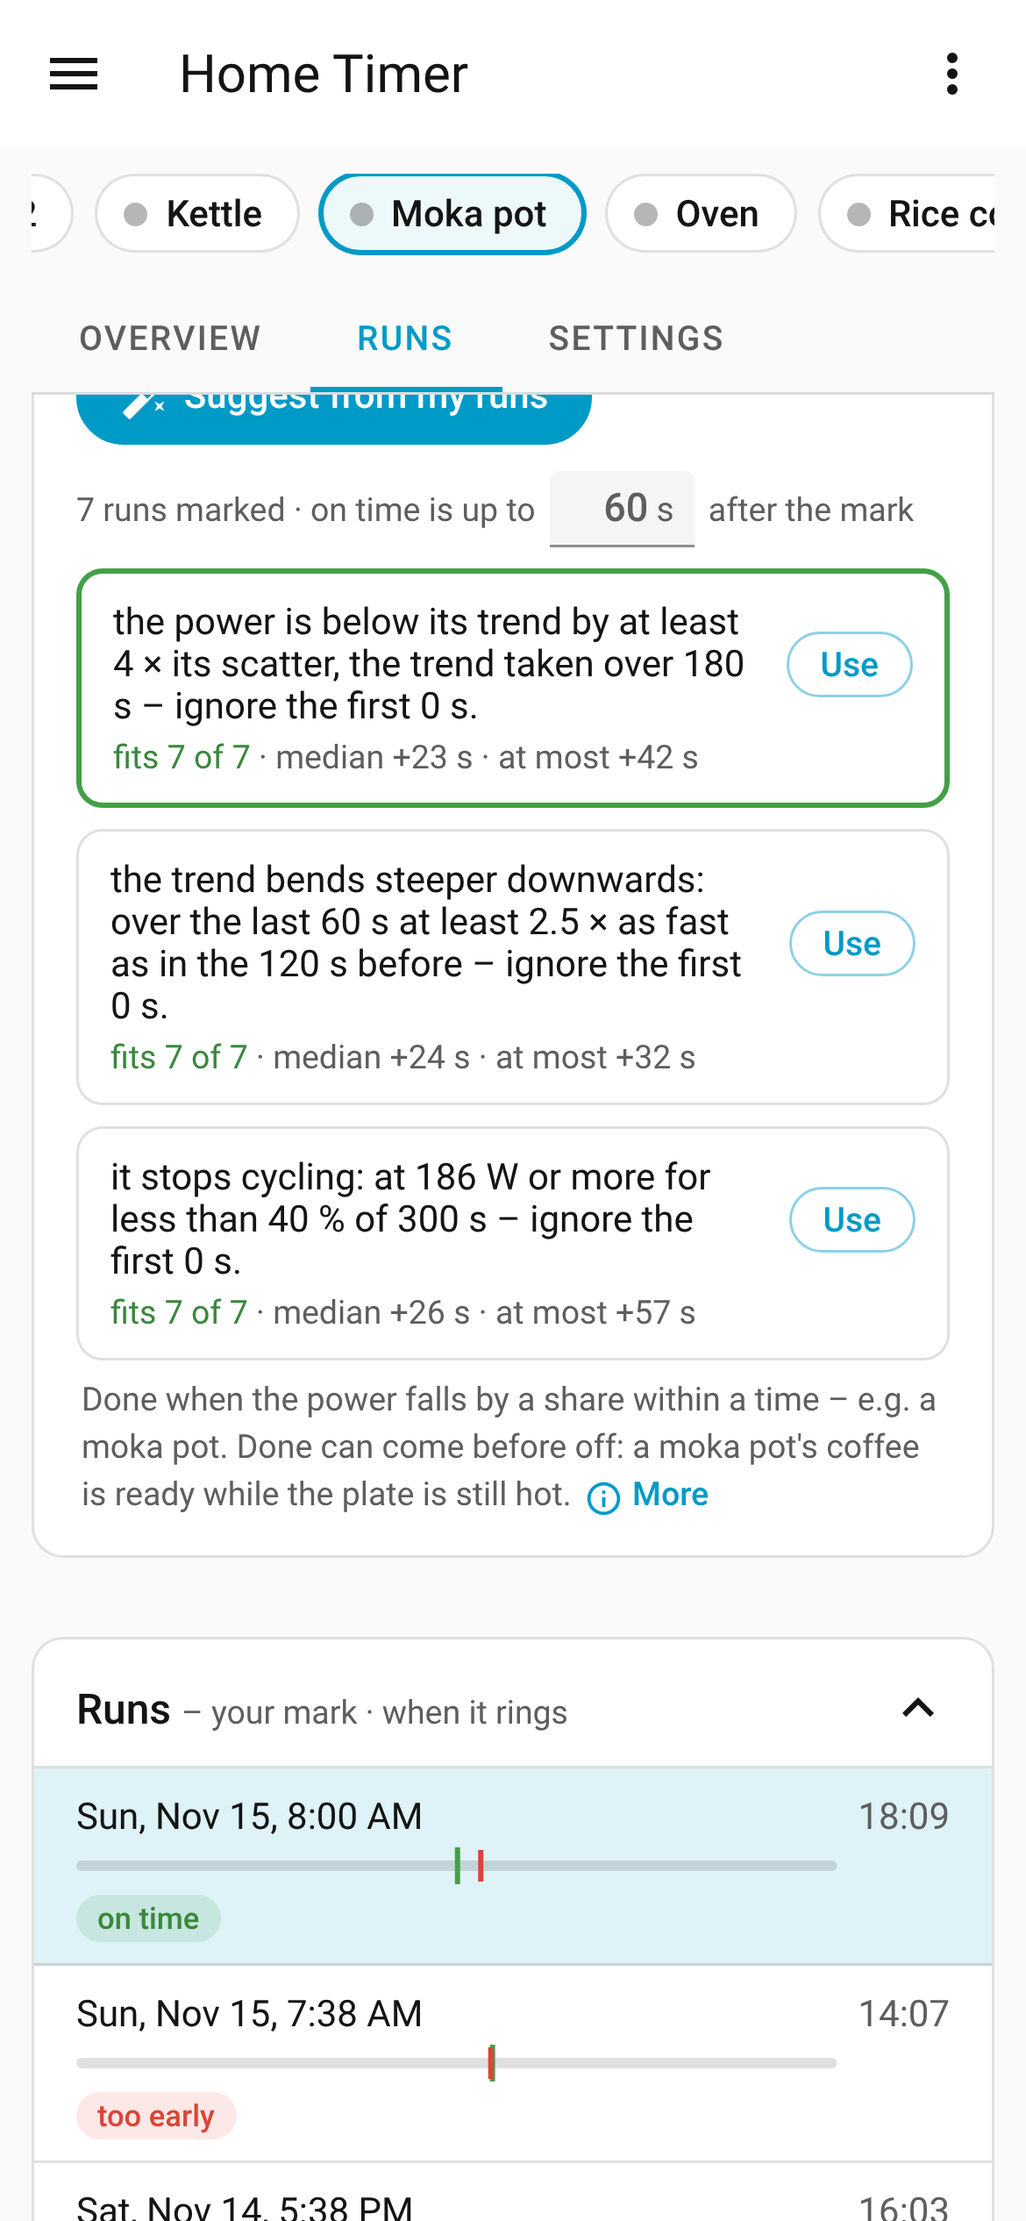
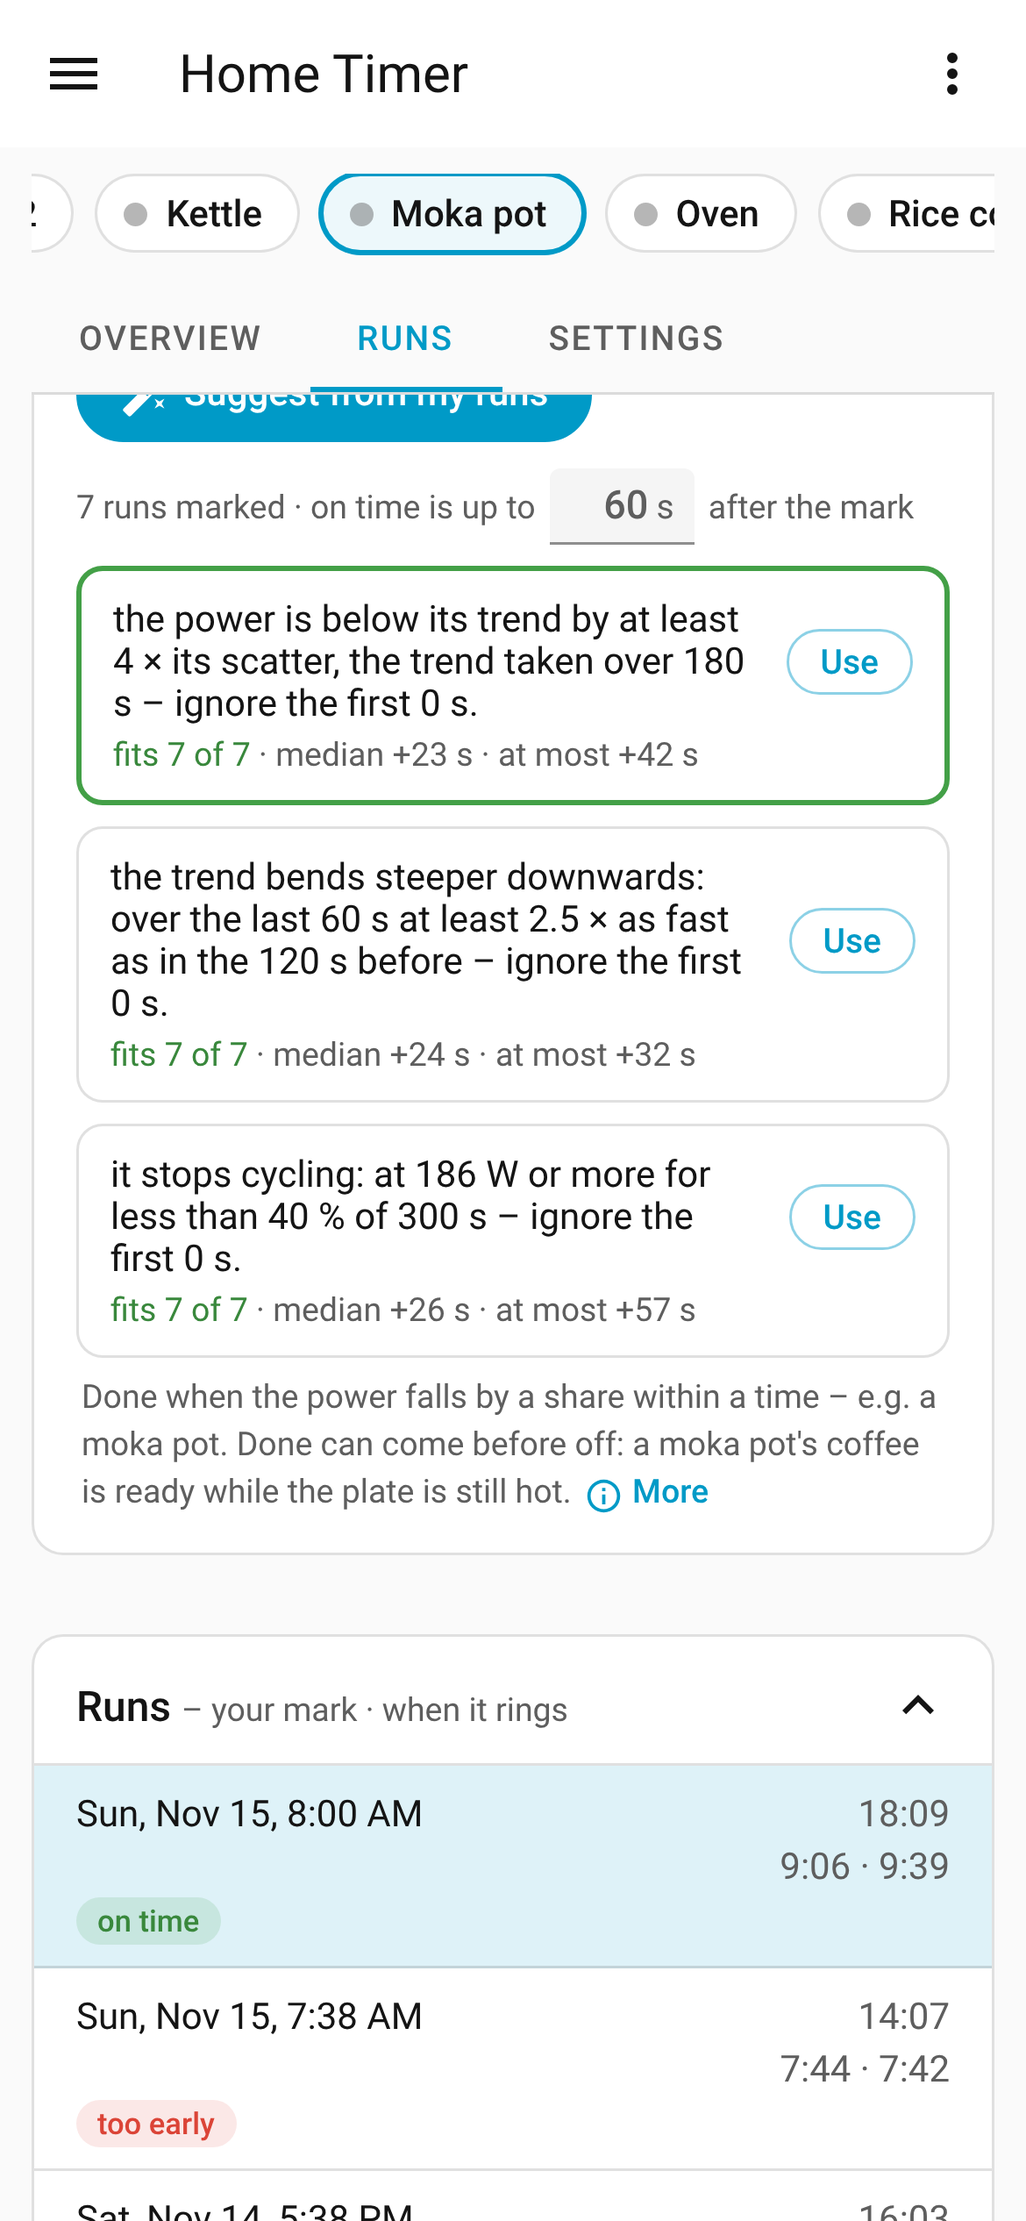
Station tabs: review fixes
- The overview's "suggestions are ready" card works (it compared the
  wrong key) and asks for a search that finished earlier.
- A power station's overview has Done now while a run goes on (when it
  learns) and Acknowledge while it rings.
- The note that runs were recorded with another sensor shows where the
  sensor is picked (Settings).
- The runs list keeps its ring times (mark · saved → draft); the small
  strip gives way instead.
- Errors of the done rule lead to Runs only when the rule is shown
  there; otherwise they show on Settings. Presets of a station turned to
  "by power" are marked on Settings.
- Settings fetches no preview it does not show; the Runs tab says so when
  the draft turns the station to "by hand".
- Station by hand: no Pause for a timer that counts up; no buttons
  without its timer entity; presets start by id.
- Leftover styles removed; docs say "Runs tab" instead of "page".

Claude-Session: https://claude.ai/code/session_013QxJ3mY44sKf5QDsVZqSUV

diff --git a/custom_components/home_timer/frontend/home-timer-panel.js b/custom_components/home_timer/frontend/home-timer-panel.js
@@ -348,7 +348,7 @@ class HomeTimerPanel extends LitElement {
         // the errors may be on another tab of the station: go to the first one with errors
         const r = this._route;
         const station = this._area(r.entry)?.stations.find((s) => s.id === r.station);
-        const tabs = [...new Set(Object.keys(this._errors[`station:${r.entry}:${r.station}`] || {}).map((f) => HomeTimerPanel.fieldTab(f, station)))];
+        const tabs = [...new Set(Object.keys(this._errors[`station:${r.entry}:${r.station}`] || {}).map((f) => HomeTimerPanel.fieldTab(f, station, this._drafts[`station:${r.entry}:${r.station}`])))];
         if (station && tabs.length && !tabs.includes(this._stationTab(station))) this._go(`station/${r.entry}/${r.station}/${tabs[0]}`, { force: true });
       }
       if (failed && this._route.page === "home") {
@@ -900,9 +900,10 @@ class HomeTimerPanel extends LitElement {
   }
 
   // which tab of a station shows a field of its draft (for the dot on a tab and to show errors)
-  static fieldTab(field, station) {
-    if (station?.mode === "power" && /^power\.(done|tolerance)(\.|$)/.test(field)) return "runs";
-    if (/^presets(\.|$)/.test(field)) return station?.mode === "power" ? "settings" : "presets";
+  static fieldTab(field, station, d) {
+    const rule = station?.mode === "power" && (!d || (d.mode === "power" && d.power?.kind === "until_off"));
+    if (rule && /^power\.(done|tolerance)(\.|$)/.test(field)) return "runs"; // the rule is on Runs only for "ring when it's done"
+    if (/^presets(\.|$)/.test(field)) return station?.mode === "manual" && (!d || d.mode === "manual") ? "presets" : "settings";
     return "settings";
   }
 
@@ -913,9 +914,9 @@ class HomeTimerPanel extends LitElement {
     if (!d || !b || same(d, b)) return new Set();
     const tabs = new Set();
     for (const k of ["name", "icon", "mode"]) if (!same(d[k], b[k])) tabs.add("settings");
-    if (!same(d.presets, b.presets)) tabs.add(HomeTimerPanel.fieldTab("presets", station));
+    if (!same(d.presets, b.presets)) tabs.add(HomeTimerPanel.fieldTab("presets", station, d));
     for (const k of new Set([...Object.keys(d.power || {}), ...Object.keys(b.power || {})])) {
-      if (!same(d.power?.[k], b.power?.[k])) tabs.add(HomeTimerPanel.fieldTab(`power.${k}`, station));
+      if (!same(d.power?.[k], b.power?.[k])) tabs.add(HomeTimerPanel.fieldTab(`power.${k}`, station, d));
     }
     return tabs;
   }
@@ -952,7 +953,9 @@ class HomeTimerPanel extends LitElement {
     const showPresets = (!power && station?.mode !== "manual") || (power && (d.power.kind === "start_preset" || presetErrors));
     const data = savedPower ? this._runs[this._runsKey(area.entry_id, station.id)] : null;
     if (savedPower && !data) this._loadRunsSoon(area.entry_id, station.id);
-    const preview = savedPower && data && power ? this._previewFor(area, station, d) : null;
+    // the preview only where Settings shows it: the summary of "start a preset" / "warn"
+    const preview = savedPower && data && power && d.power.kind !== "until_off" ? this._previewFor(area, station, d) : null;
+    const ruleErrors = d.power.kind !== "until_off" || !power ? Object.entries(this._errors[key] || {}).filter(([k]) => /^power\.(done|tolerance)(\.|$)/.test(k)) : [];
     return html`<div class="cols ${power ? "wide" : ""}"><div class="col">
       <div class="card"><div class="cb ident">
         <div class="inarea"><ha-icon icon=${area.icon || "mdi:texture-box"}></ha-icon>${t("station.in_area", { area: area.name })}</div>
@@ -969,6 +972,7 @@ class HomeTimerPanel extends LitElement {
         ? html`${savedPower ? nothing : html`<div class="card"><div class="ch">${t("runs.title")}</div><div class="cb">
               <div class="emptycard"><b>${t("runs.after_save")}</b><span>${t("runs.after_save_hint")}</span></div></div></div>`}
             ${this._renderTodo(key, d, set, savedPower ? station : null, preview, !savedPower)}
+            ${ruleErrors.map(([k, code]) => html`<div class="err" role="alert">${t("power.rule")}: ${t(`error.${code}`)}</div>`)}
             ${this._renderOnOff(key, d, set, false, savedPower ? station : null)}
             ${data && !data.error ? this._renderSensor(data, station) : nothing}`
         : nothing}
@@ -988,15 +992,15 @@ class HomeTimerPanel extends LitElement {
       this.hass.callService("home_timer", service, data, { entity_id: station.entities.timer }).catch((err) => (this._notice = { kind: "error", text: err?.message || String(err) }));
     const busy = ["active", "paused", "ringing"].includes(live.status);
     return html`<div class="column wide">
-      ${this._renderNow(area, station, html`
+      ${this._renderNow(area, station, !station.entities.timer ? nothing : html`
         ${live.status === "ringing" ? html`<button class="btn" @click=${() => call("add_time", { duration: "00:01:00" })}>${t("act.plus_minute")}</button>
           <button class="btn filled" @click=${() => call("acknowledge")}>${t("hint.acknowledge")}</button>` : nothing}
-        ${live.status === "active" ? html`<button class="btn" @click=${() => call("pause")}>${t("act.pause")}</button>` : nothing}
+        ${live.status === "active" && live.kind !== "elapsed" ? html`<button class="btn" @click=${() => call("pause")}>${t("act.pause")}</button>` : nothing}
         ${live.status === "paused" ? html`<button class="btn" @click=${() => call("resume")}>${t("act.resume")}</button>` : nothing}
         ${["active", "paused"].includes(live.status) ? html`<button class="btn danger" @click=${() => call("cancel")}>${t("act.cancel")}</button>` : nothing}`)}
       <div class="sec">${t("act.start")}${busy ? html` <span class="lc">– ${t("act.start_replaces")}</span>` : nothing}</div>
       ${station.presets.length
-        ? html`<div class="qt">${station.presets.map((p) => html`<button class="q" @click=${() => call("start", { preset: p.name })}>${p.name}<i>${formatDuration(p.duration)}</i></button>`)}
+        ? html`<div class="qt">${station.presets.map((p) => html`<button class="q" ?disabled=${!station.entities.timer} @click=${() => call("start", { preset: p.id })}>${p.name}<i>${formatDuration(p.duration)}</i></button>`)}
             <button class="link" @click=${() => this._go(`station/${area.entry_id}/${station.id}/presets`)}><ha-icon icon="mdi:pencil-outline"></ha-icon>${t("presets")}</button></div>`
         : html`<div class="emptycard"><b>${t("presets.none")}</b><button class="btn filled" @click=${() => this._go(`station/${area.entry_id}/${station.id}/presets`)}>+ ${t("preset.add")}</button></div>`}
     </div>`;
@@ -1011,11 +1015,27 @@ class HomeTimerPanel extends LitElement {
     const runs = (data?.runs || []).slice(0, 6);
     const marked = (data?.runs || []).filter((r) => r.marks?.done != null && !r.skip).length;
     const runsPath = `station/${area.entry_id}/${station.id}/runs`;
-    const sug = this._suggest?.key === key && !this._suggest.loading && this._suggest.data?.suggestions?.length;
+    if (!this._suggest || this._suggest.key !== rkey) {
+      if (this._searchChecked !== rkey) {
+        this._searchChecked = rkey; // a search may be over from before the page was opened
+        this._attachSearch(area, station, rkey);
+      }
+    }
+    const sug = !this._suggest?.loading && this._freshSuggest(rkey)?.suggestions?.length;
+    const live = stationLive(this.hass, station, this._now);
+    const current = data?.current;
+    const ack = () => this.hass.callService("home_timer", "acknowledge", {}, { entity_id: station.entities.timer }).catch((err) => (this._notice = { kind: "error", text: err?.message || String(err) }));
+    // while it runs: "Done now" marks the run going on (learning); while it rings: acknowledge
+    const actions = html`${this._learning(d) && current && live.running
+        ? current.marks?.done != null
+          ? html`<span class="ok">✓ ${t("learn.marked_now", { time: formatDuration(current.marks.done) })}</span>`
+          : html`<button class="btn filled ok" @click=${() => this._doneNow(area, station).then(() => this._loadRuns(area.entry_id, station.id))}><ha-icon icon="mdi:check"></ha-icon>${t("learn.done_now")}</button>`
+        : nothing}
+      ${live.status === "ringing" && station.entities.timer ? html`<button class="btn filled" @click=${ack}>${t("hint.acknowledge")}</button>` : nothing}`;
     return html`<div class="cols wide"><div class="col">
       ${sug ? html`<div class="hints"><div class="hint"><ha-icon icon="mdi:lightbulb-on-outline"></ha-icon>
           <div class="txt"><b>${t("hint.suggestions")}</b></div><button class="btn" @click=${() => this._go(runsPath)}>${t("hint.open")}</button></div></div>` : nothing}
-      ${this._renderNow(area, station)}
+      ${this._renderNow(area, station, (this._learning(d) && current && live.running) || live.status === "ringing" ? actions : nothing)}
       <div class="card"><div class="ch">${t("runs.last")} <span class="chs">– ${data?.runs ? `${t("runs.summary", { count: data.runs.length })} · ${t("runs.marked", { count: marked })}` : t("loading")}</span></div>
         ${runs.length
           ? html`<div class="runs">${runs.map(
@@ -1041,7 +1061,9 @@ class HomeTimerPanel extends LitElement {
       <div class="rgl">${data && !data.error ? this._renderRunList(area, station, d, data, preview) : nothing}</div>
       <div class="rgr">
         ${this._renderCurve(area, station, d, data, preview)}
-        ${rule
+        ${d.mode !== "power"
+          ? html`<div class="card"><div class="cb help">${t("runs.manual_note")}</div></div>`
+          : rule
           ? html`<div class="card"><div class="ch">${t("kind.until_off")}</div><div class="cb">${this._ruleBody(key, d, set, station, preview)}</div></div>`
           : html`<div class="card"><div class="cb">${this._previewSummary(station, d, preview)}
               <div class="help">${t("runs.kind_note", { kind: t(`kind.${d.power.kind}`) })} <button class="link" @click=${() => this._go(`station/${area.entry_id}/${station.id}/settings`)}>${t("nav.settings")} ›</button></div></div></div>`}
@@ -1988,6 +2010,9 @@ class HomeTimerPanel extends LitElement {
     const parts = t("onoff.sentence").split(/(\{\w+\})/);
     const inl = { on_above: () => this._inline(key, "power.on_above", p.on_above, spec.on_above, "W", (v) => setP("on_above", v)), off_after: () => this._inline(key, "power.off_after", p.off_after, spec.off_after, "s", (v) => setP("off_after", v)) };
     const summary = `${p.sensor ? this._name(p.sensor) : t("onoff.no_sensor")} · ${t("onoff.short", { watts: p.on_above, unit })}`;
+    // another sensor than the stored runs were recorded with: say so where it is picked
+    const sensorNote = station && p.sensor && p.sensor !== station.power.sensor
+      ? html`<div class="note">${t("runs.sensor_changed", { old: this._name(station.power.sensor), new: this._name(p.sensor) })}</div>` : nothing;
     return html`<div class="card">
       ${foldable && this.narrow
         ? html`<button class="ch fold" aria-expanded=${open ? "true" : "false"} @click=${() => this._setFold("onoff", !open)}>
@@ -1996,6 +2021,7 @@ class HomeTimerPanel extends LitElement {
       ${open
         ? html`<div class="cb">
             ${this._selector(key, "power.sensor", t("power.sensor"), { entity: { filter: { domain: "sensor", device_class: "power" } } }, p.sensor, (v) => setP("sensor", v || ""), t("power.sensor_hint"))}
+            ${sensorNote}
             <div class="sentence">${parts.map((part) => {
               const m = part.match(/^\{(\w+)\}$/);
               return m && inl[m[1]] ? inl[m[1]]() : part;
@@ -2401,8 +2427,10 @@ class HomeTimerPanel extends LitElement {
     .runsgrid { display: grid; grid-template-columns: minmax(300px, 380px) minmax(0, 1fr); gap: 16px; align-items: start; }
     .runsgrid .rgl { position: sticky; top: 120px; }
     .runsgrid .runs { max-height: calc(100vh - 260px); }
-    .runsgrid .runrow { grid-template-columns: minmax(0, 1fr) 44px minmax(40px, 70px) 92px; }
-    .runsgrid .runrow .rr { display: none; }
+    .runsgrid { grid-template-columns: minmax(360px, 470px) minmax(0, 1fr); }
+    .runsgrid .runrow { grid-template-columns: minmax(0, 1fr) 44px auto 92px; }
+    .runsgrid .runrow .rr { white-space: nowrap; }
+    .runsgrid .runrow .rs { display: none; }
     @container (max-width: 820px) {
       .runsgrid { grid-template-columns: minmax(0, 1fr); }
       .runsgrid .rgl { position: static; order: 2; }
@@ -2464,7 +2492,6 @@ class HomeTimerPanel extends LitElement {
     .cols { display: flex; gap: 20px; align-items: flex-start; }
     .col { flex: 1; min-width: 0; max-width: 760px; }
     :host([narrow]) .cols { flex-direction: column; gap: 0; align-items: stretch; }
-    :host([narrow]) .colr { width: 100%; position: static; order: -1; }
     .fieldwrap + .pair { margin-top: 12px; }
     .pair { display: grid; grid-template-columns: repeat(auto-fit, minmax(200px, 1fr)); gap: 12px 14px; margin: 4px 0; }
     .pair.off { opacity: 0.6; }
@@ -2637,8 +2664,6 @@ class HomeTimerPanel extends LitElement {
     .ql { font-size: 12px; font-weight: 600; letter-spacing: 0.05em; text-transform: uppercase; color: var(--ht-s); margin-bottom: 2px; }
     .preview { background: var(--ht-fill); border-radius: 8px; padding: 10px 12px; margin: 8px 0 4px; line-height: 1.6; }
     .preview .warn { color: color-mix(in srgb, var(--ht-run) 85%, #000); }
-    :host([narrow]) .duo { grid-template-columns: 1fr; }
-    :host([narrow]) .duor { order: -1; }
     .chart .win { fill: color-mix(in srgb, var(--ht-err) 8%, transparent); }
     .chart .zone.win, .chart .zone.lvl { fill: var(--ht-err); }
     .chart .level { stroke: var(--ht-err); stroke-width: 1.2; stroke-dasharray: 2 3; }
@@ -2698,8 +2723,6 @@ class HomeTimerPanel extends LitElement {
     .outls { padding: 0 16px; }
     .outl { border: 1px solid color-mix(in srgb, var(--ht-err) 30%, transparent); background: color-mix(in srgb, var(--ht-err) 5%, transparent); border-radius: 10px; padding: 10px 12px; margin: 10px 0; line-height: 1.45; }
     .outla { display: flex; gap: 8px; flex-wrap: wrap; margin-top: 8px; }
-    @container (max-width: 920px) {
-    }
     @container (max-width: 780px) {
       .cols { flex-direction: column; gap: 0; align-items: stretch; }
       .col { max-width: none; }

diff --git a/docs/power.md b/docs/power.md
@@ -77,7 +77,7 @@ Once a run is done, its timer is an ordinary ringing timer: adding time snoozes 
 
 ## Runs
 
-Every run is stored with its power curve when the appliance switches off (runs shorter than 10 s are blips and are not). The station's page in the [panel](panel.md#a-station-by-power) shows them: the curve with the *runs above* threshold, the start the done rule ignores, where the run stopped, and when the saved settings – and your changes, while they are not saved – would ring on it; when it really rang is written below. Per station the newest 30 runs are kept.
+Every run is stored with its power curve when the appliance switches off (runs shorter than 10 s are blips and are not). The station's *Runs* tab in the [panel](panel.md#a-station-by-power) shows them: the curve with the *runs above* threshold, the start the done rule ignores, where the run stopped, and when the saved settings – and your changes, while they are not saved – would ring on it; when it really rang is written below. Per station the newest 30 runs are kept.
 
 The first time Home Timer sees a power station, it reads the station's earlier runs once from the recorder's history of the sensor, as far as the recorder kept it (10 days by default). For those runs of a station *until it switches off*, when its done rule – as set at that moment – would have rung is worked out from the curve, and labelled as such. Only the history before the first run stored live is read, so no run appears twice. A station's runs are deleted with the station.
 
@@ -89,7 +89,7 @@ The tab also shows how often the sensor reports and how much its readings scatte
 
 Which rule and values fit your appliance is easiest to learn from your own runs:
 
-1. **Mark when it was done** – in a few runs, on the station's page: click the curve where the coffee was ready (or use *Mark done here*), then move the mark (drag it, ← → 1 s, Shift 10 s, or the −10/−1/+1/+10 s buttons; on a phone a tap sets it). In a long run, zoom in first (🔍, Ctrl + wheel) to place it to the second. While a run goes on, *Done now* marks it – also from a dashboard with the station's *Done now* button.
+1. **Mark when it was done** – in a few runs, on the station's *Runs* tab: click the curve where the coffee was ready (or use *Mark done here*), then move the mark (drag it, ← → 1 s, Shift 10 s, or the −10/−1/+1/+10 s buttons; on a phone a tap sets it). In a long run, zoom in first (🔍, Ctrl + wheel) to place it to the second. While a run goes on, *Done now* marks it – also from a dashboard with the station's *Done now* button.
 2. **Suggest from my runs** (from 3 marked runs): Home Timer tries every rule with many values on all marked runs. A suggestion must ring after each run's mark – never before comes first – and at most the **tolerance** after it (60 s by default, a setting of the station). The best of each rule type is offered (at most three), with how many runs it fits and its median and longest delay. Two steps (*A, then B*) are tried as well and offered first when they beat the best single rule – e.g. when a rule alone fires too early in some runs; longer sequences are set up by hand. It uses the newest 12 marked runs. A search takes a few seconds, longer with long runs: a bar shows how far it is, and *Cancel* stops it. It goes on when you leave the page – coming back shows its progress or its result.
 3. **Use** puts a suggestion into the draft; the preview shows it on all runs, and **Save** makes it the station's rule.
 

diff --git a/README.md b/README.md
@@ -22,7 +22,7 @@
 - **[Dashboard controls](https://github.com/financelurker/ha-home-timer/blob/main/docs/timers.md#starting-timers-from-a-dashboard)** for timers without a station: quick timers (one tap), a custom duration, "save as preset".
 - **[Power stations](https://github.com/financelurker/ha-home-timer/blob/main/docs/power.md):** a power sensor starts the timer – it rings when the appliance is done (e.g. a moka pot), starts a preset when switched on, or warns if it runs too long. Every run is [stored with its power curve](https://github.com/financelurker/ha-home-timer/blob/main/docs/power.md#runs).
 - **[Device triggers](https://github.com/financelurker/ha-home-timer/blob/main/docs/automations.md#device-triggers)** per station and per area: started, finished, reminder, acknowledged.
-- **[Its own panel](https://github.com/financelurker/ha-home-timer/blob/main/docs/panel.md):** areas, stations, presets and options on one page, with what each station does right now – also on the phone.
+- **[Its own panel](https://github.com/financelurker/ha-home-timer/blob/main/docs/panel.md):** every station in one bar, its runs, rules and settings on tabs, with what each station does right now – also on the phone.
 
 No custom card needed – a dashboard of plain tile cards:
 
